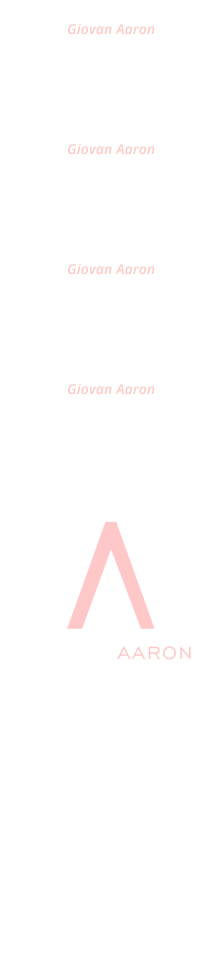
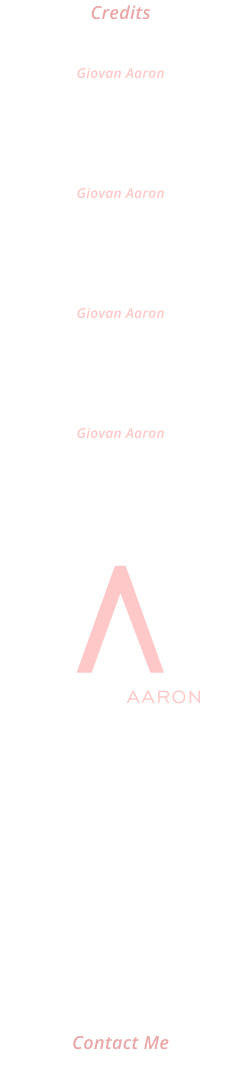
updates instruction screen and credits roll with better copy

diff --git a/src/components/screens/end_credits.py b/src/components/screens/end_credits.py
@@ -8,7 +8,7 @@ class EndCredits:
 
         self.image = pygame.image.load("data/assets/ui/credits_roll.png")
         self.image_rect = self.image.get_rect()
-        self.pos = 1150  
+        self.pos = 1180  
         self.image_rect.center = (GameContext.WIDTH/2, self.pos)
         self.screen = GameContext.SCREEN
         self.bg_color = (102, 102, 102)
@@ -18,14 +18,14 @@ class EndCredits:
 
     def update(self, keys):
         
-        if self.pos == -185:
+        if self.pos == -200:
             self.timer += 1
 
 
         if self.timer >= 3000:
             GameContext.PLAY_STATE = PlayStatus.MAIN_MENU
 
-        if self.pos > -185:
+        if self.pos > -185 - 20:
             self.pos -= 1
             self.image_rect.center = (GameContext.WIDTH/2, self.pos)
             self.clock.tick(60)
